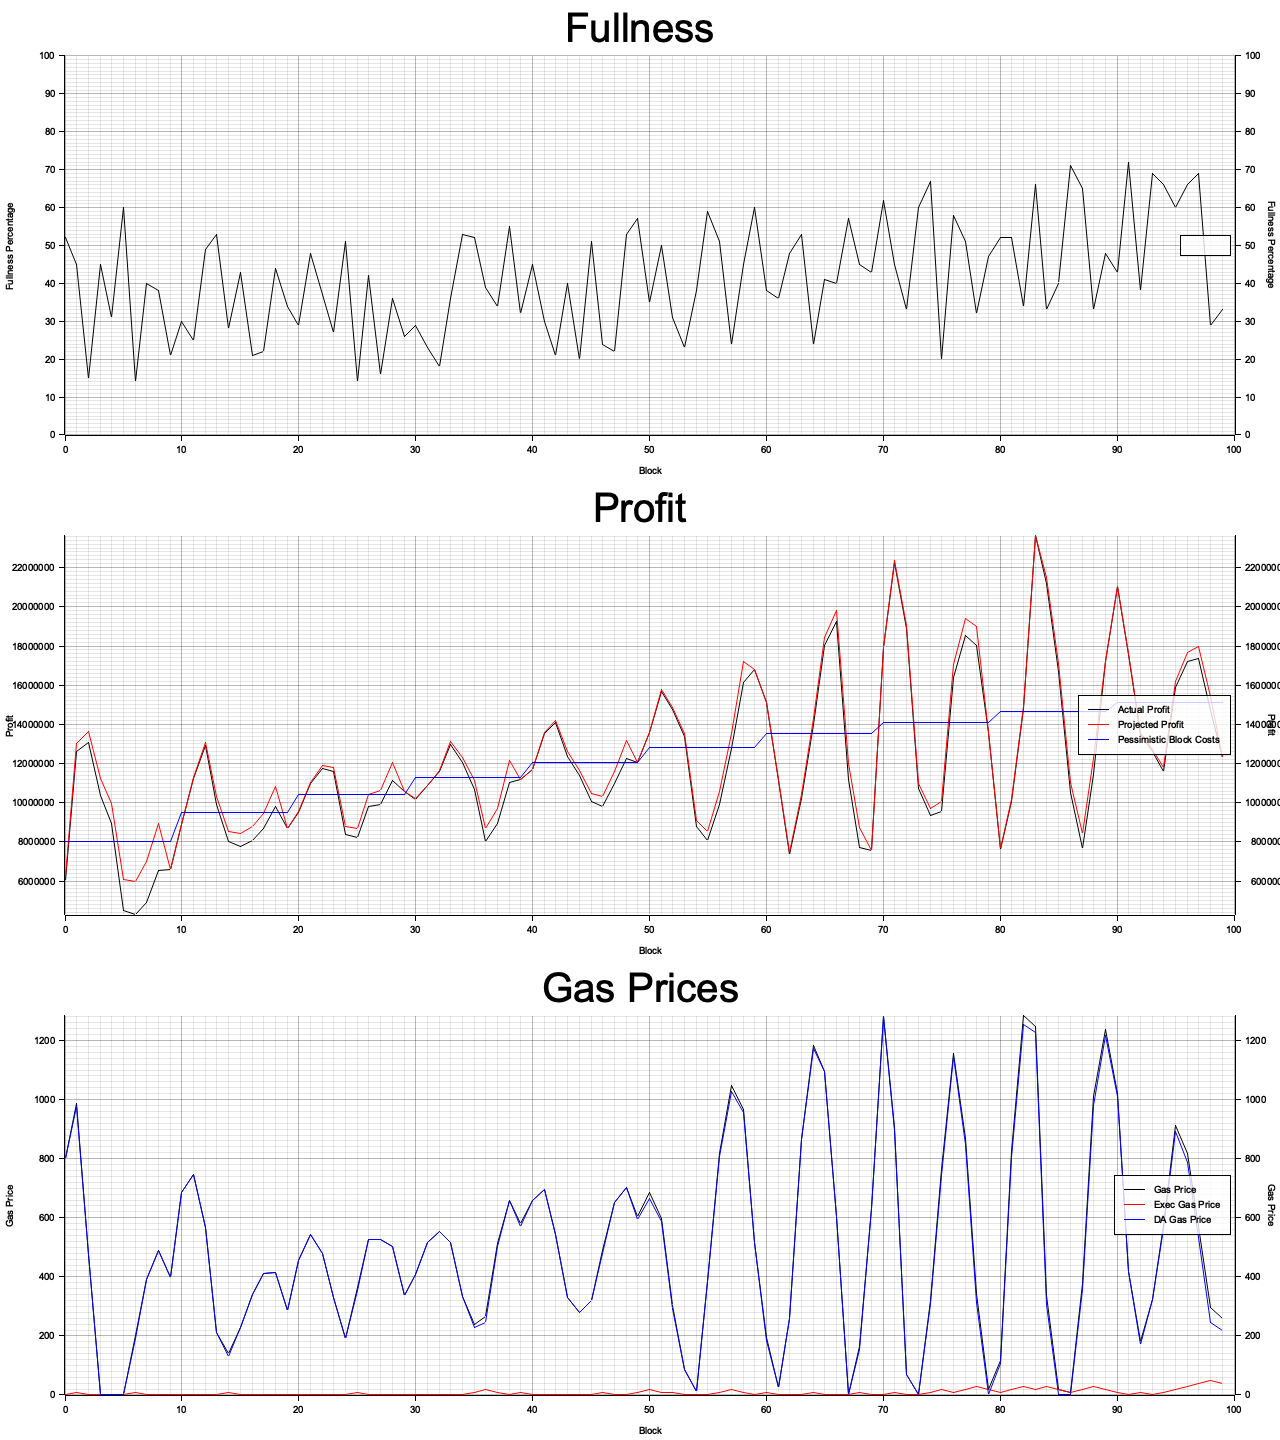
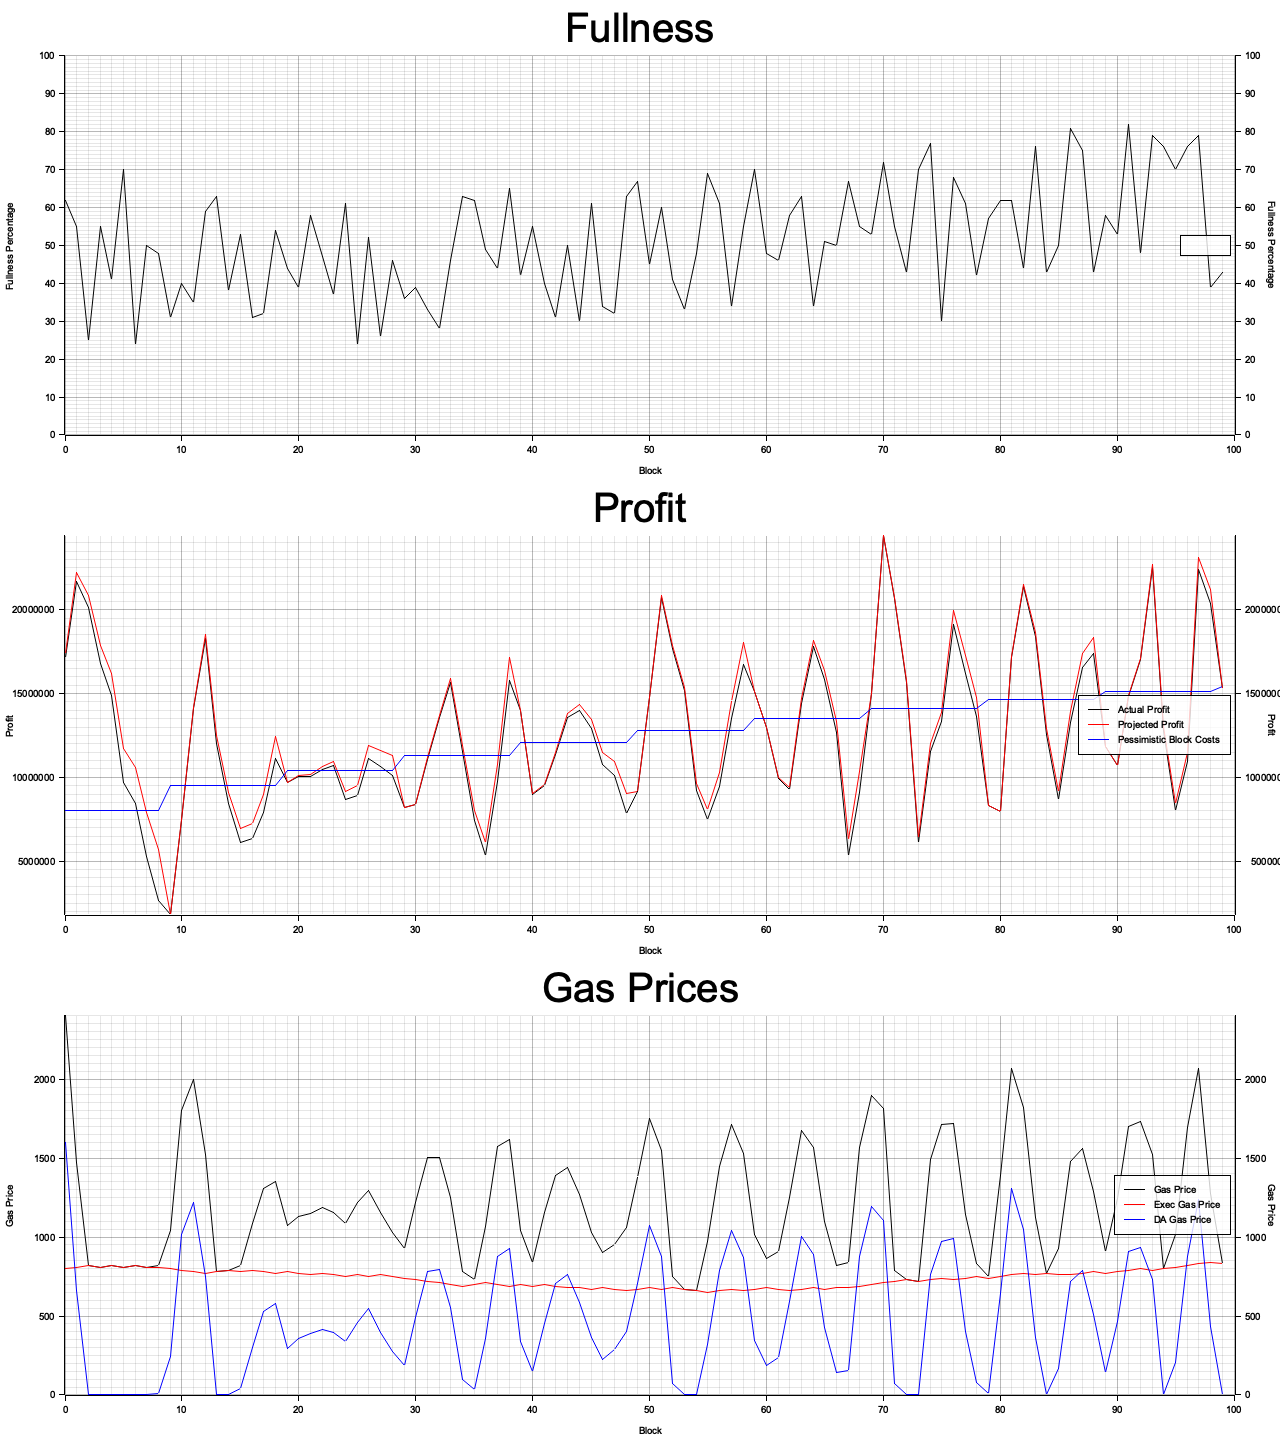
WIP

diff --git a/crates/gas-price-algorithm/src/main.rs b/crates/gas-price-algorithm/src/main.rs
@@ -79,20 +79,23 @@ where
 
 fn fullness_and_bytes_per_block(size: usize, capacity: u64) -> Vec<(u64, u64)> {
     let mut rng = StdRng::seed_from_u64(888);
+
     let fullness_noise: Vec<_> = std::iter::repeat(())
         .take(size)
         .map(|_| rng.gen_range(-0.25..0.25))
         .map(|val| val * capacity as f64)
         .collect();
+
     let bytes_scale: Vec<_> = std::iter::repeat(())
         .take(size)
         .map(|_| rng.gen_range(0.5..1.0))
         .map(|x| x * 4.0)
         .collect();
+
     (0usize..size)
         .map(|val| val as f64)
         .map(noisy_fullness)
-        .map(|signal| (0.5 * signal + 0.4) * capacity as f64)
+        .map(|signal| (0.5 * signal + 0.5) * capacity as f64)
         .zip(fullness_noise)
         .map(|(fullness, noise)| fullness + noise)
         .map(|x| f64::min(x, capacity as f64))
@@ -116,11 +119,10 @@ fn arb_cost_per_byte(size: u32) -> Vec<u64> {
 
 fn main() {
     // simulation parameters
-    let starting_gas_price = 0;
     let fullness_threshold = 50;
     let exec_gas_price_increase_amount = 10;
     let da_p_component = 10_000;
-    let da_d_component = 10;
+    let da_d_component = 10_000;
     let starting_gas_per_byte = 100;
     let size = 100;
     let da_recording_rate = 10;
@@ -161,8 +163,8 @@ fn main() {
     let blocks = l2_blocks.iter().zip(da_blocks.iter()).enumerate();
 
     let mut updater = AlgorithmUpdaterV1 {
-        new_exec_price: 0,
-        last_da_price: 0,
+        new_exec_price: 800,
+        last_da_price: 800,
         l2_block_height: 0,
         l2_block_fullness_threshold_percent: fullness_threshold,
         exec_gas_price_increase_amount,
@@ -174,6 +176,7 @@ fn main() {
         unrecorded_blocks: vec![],
         da_p_component,
         da_d_component,
+        last_profit: 0,
     };
 
     let mut gas_prices = vec![];
@@ -186,7 +189,6 @@ fn main() {
     let pessimistic_bytes = capacity * 4;
     for (index, (l2_block, da_block)) in blocks {
         let height = index as u32 + 1;
-        pessimistic_costs.push(pessimistic_bytes * updater.latest_da_cost_per_byte);
         let gas_price = updater.algorithm().calculate(pessimistic_bytes);
         gas_prices.push(gas_price);
         let (fullness, bytes) = l2_block;
@@ -203,8 +205,12 @@ fn main() {
             }
             updater.update_da_record_data(da_blocks.to_owned()).unwrap();
         }
+        pessimistic_costs.push(pessimistic_bytes * updater.latest_da_cost_per_byte);
         actual_rewards.push(updater.total_da_rewards);
         projected_costs.push(updater.projected_total_da_cost);
+        let profit =
+            updater.total_da_rewards as i64 - updater.projected_total_da_cost as i64;
+        dbg!(profit);
     }
 
     // Plotting code starts here
@@ -260,7 +266,8 @@ fn draw_gas_prices(
     da_gas_prices: &Vec<u64>,
     title: &str,
 ) {
-    let min = *gas_prices.iter().min().unwrap();
+    // let min = *gas_prices.iter().min().unwrap();
+    let min = 0;
     let max = *gas_prices.iter().max().unwrap();
 
     let mut chart = ChartBuilder::on(drawing_area)

diff --git a/crates/gas-price-algorithm/src/lib.rs b/crates/gas-price-algorithm/src/lib.rs
@@ -57,20 +57,26 @@ impl AlgorithmV1 {
         // DA PORTION
         let mut new_da_gas_price = self.last_da_price as i64;
         let extra_for_this_block = block_bytes * self.latest_da_cost_per_byte;
+        // let extra_for_this_block = 0;
         let pessimistic_cost = self.total_costs + extra_for_this_block;
         let projected_profit = self.total_rewards as i64 - pessimistic_cost as i64;
+        dbg!(projected_profit);
 
         // P
         let checked_p = projected_profit.checked_div(self.da_p_component);
         if let Some(p) = checked_p {
-            new_da_gas_price = new_da_gas_price.saturating_sub(p);
+            let min = 0;
+            let potential = new_da_gas_price.saturating_sub(p);
+            new_da_gas_price = max(min, potential);
         };
 
         // D
         let slope = projected_profit - self.last_profit;
         let checked_d = slope.checked_div(self.da_d_component);
         if let Some(d) = checked_d {
-            new_da_gas_price = new_da_gas_price.saturating_sub(d);
+            let min = 0;
+            let potential = new_da_gas_price.saturating_add(d);
+            new_da_gas_price = max(min, potential);
         };
 
         self.new_exec_price + new_da_gas_price as u64
@@ -154,14 +160,14 @@ impl AlgorithmUpdaterV1 {
             })
         } else {
             self.l2_block_height = height;
+            self.last_profit =
+                self.total_da_rewards as i64 - self.projected_total_da_cost as i64;
             self.projected_total_da_cost += block_bytes * self.latest_da_cost_per_byte;
             // implicitly deduce what our da gas price was for the l2 block
-            self.last_da_price = gas_price - self.new_exec_price;
+            self.last_da_price = gas_price.saturating_sub(self.new_exec_price);
             self.update_exec_gas_price(fullness.0, fullness.1);
             let da_reward = fullness.0 * self.last_da_price;
             self.total_da_rewards += da_reward;
-            let cost = block_bytes * self.latest_da_cost_per_byte;
-            self.last_profit = da_reward as i64 - cost as i64;
             Ok(())
         }
     }

diff --git a/crates/gas-price-algorithm/src/tests/update_l2_block_Data_tests.rs b/crates/gas-price-algorithm/src/tests/update_l2_block_Data_tests.rs
@@ -214,12 +214,14 @@ fn update_l2_block_data__updates_the_previous_profit() {
     let starting_exec_gas_price = 100;
     let starting_da_gas_price = 10;
     let price_per_byte = 10;
-    let starting_last_profit = 0;
+    let total_rewards = 1000;
+    let total_cost = 500;
     let mut updater = UpdaterBuilder::new()
         .with_starting_exec_gas_price(starting_exec_gas_price)
         .with_starting_da_gas_price(starting_da_gas_price)
         .with_da_cost_per_byte(price_per_byte)
-        .with_last_profit(starting_last_profit)
+        .with_total_rewards(total_rewards)
+        .with_projected_total_cost(total_cost)
         .build();
 
     let height = 1;
@@ -234,10 +236,11 @@ fn update_l2_block_data__updates_the_previous_profit() {
         .unwrap();
 
     // then
-    let new_da_price = new_gas_price - starting_exec_gas_price;
-    let cost = block_bytes * price_per_byte;
-    let reward = new_da_price * gas_used;
-    let expected = reward as i64 - cost as i64;
+    // let new_da_price = new_gas_price - starting_exec_gas_price;
+    // let cost = block_bytes * price_per_byte;
+    // let reward = new_da_price * gas_used;
+    // let expected = reward as i64 - cost as i64;
+    let expected = total_rewards as i64 - total_cost as i64;
     let actual = updater.last_profit;
     assert_eq!(actual, expected);
 }
